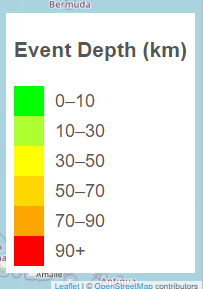
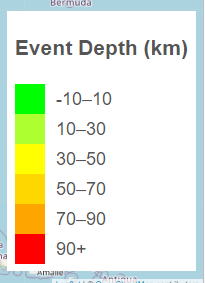
Updating code for Module 15 challenge

diff --git a/Leaflet-Part-1/static/js/logic.js b/Leaflet-Part-1/static/js/logic.js
@@ -37,7 +37,7 @@ d3.json(queryUrl).then(function (data) {
 
     var div = L.DomUtil.create('div', 'legend');
     div.innerHTML += "<h3>Event Depth (km)</h3>";
-    var grades = [0, 10, 30, 50, 70, 90];
+    var grades = [-10, 10, 30, 50, 70, 90];
     var labels = [];
 
     // loop through our density intervals and generate a label with a colored square for each interval
